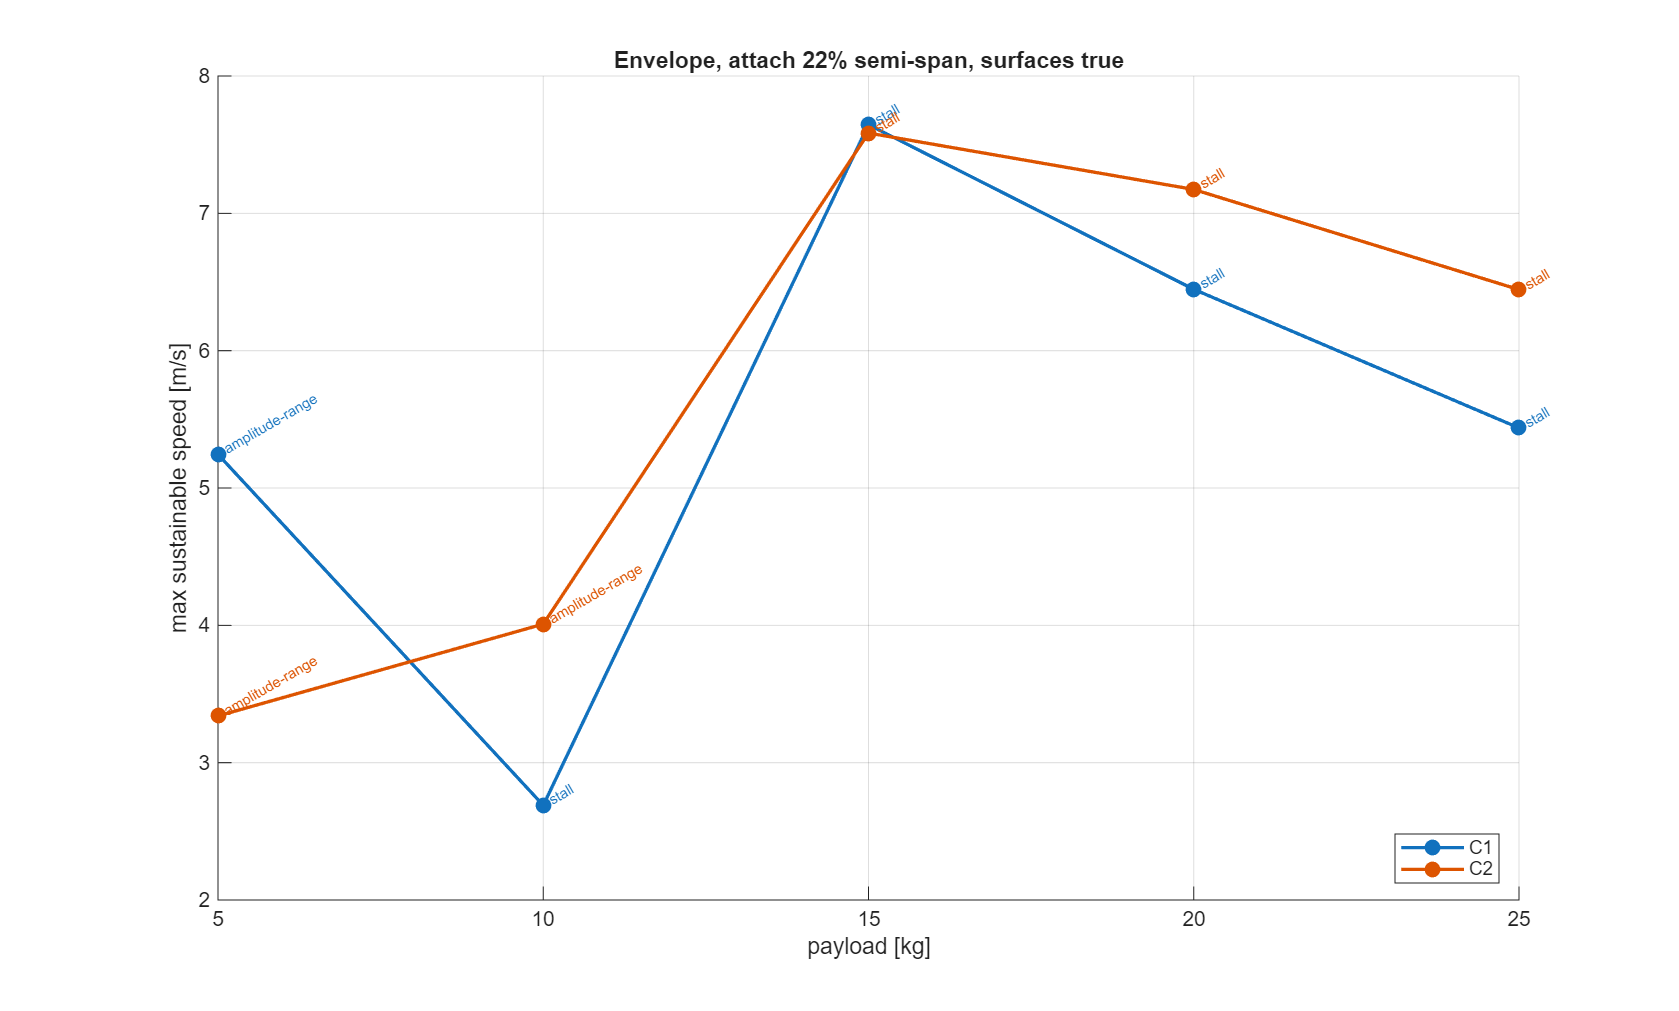
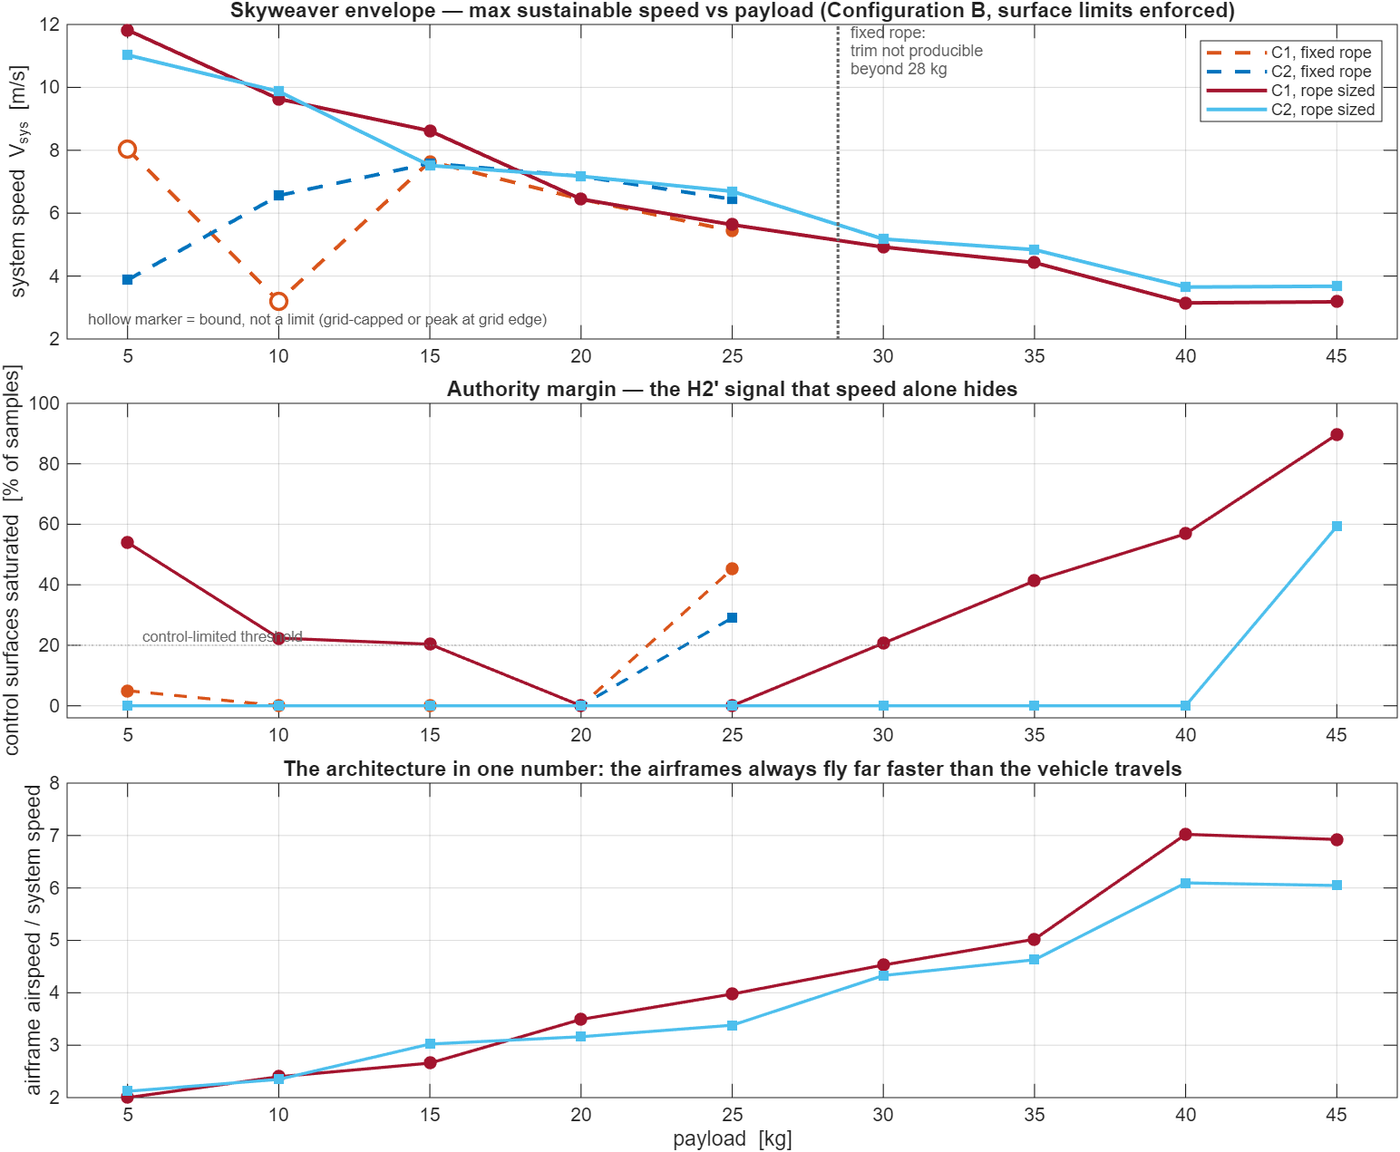
Update Skyweaver envelope with rope-sizing sweep (extends to 45 kg); add Chess Engine nav link

diff --git a/index.html b/index.html
@@ -16,6 +16,7 @@
     <a href="#projects">Projects</a>
     <a href="#classes">Classes</a>
     <a href="thrust-bench/">Motor and Propeller Drone Sizing Calculator</a>
+    <a href="chess/index.html">Chess Engine</a>
     <a href="#contact">Contact</a>
   </nav>
 </header>
@@ -92,12 +93,14 @@
         payload-to-weight goal from DARPA's 2026 Lift Challenge that no entrant met. I built a
         nonlinear 6-DOF MATLAB simulation of the full system, using NASA FASER's real
         wind-tunnel-measured airframe data, then designed and compared a cascaded PID autopilot
-        against a rotating-frame LQR. Result: a 25&ndash;30 kg payload ceiling set by rudder
-        authority rather than lift or power, with the LQR extending that ceiling by up to 19%.
+        against a rotating-frame LQR. Result: sizing the tether length to each payload, rather
+        than flying a fixed rope, extends the usable envelope from a ~25&ndash;30 kg trim-limited
+        cutoff out to 45 kg, with the LQR holding control surfaces near-unsaturated across most
+        of that range while the PID saturates up to 90% at the top end.
       </p>
       <p class="skyweaver-note">
         Animations show the aerodynamic design point; the envelope adds real control-surface
-        limits, which is what sets the payload ceiling.
+        limits and a rope length sized per payload, which is what extends the usable range.
       </p>
     </div>
     <div class="project-media skyweaver-media">
@@ -106,8 +109,8 @@
         <figcaption>Full mission &mdash; takeoff, 450 m transit and landing, flown by the cascaded PID controller.</figcaption>
       </figure>
       <figure>
-        <img src="assets/img/skyweaver-envelope.png" alt="Speed-versus-payload envelope plot for the PID and LQR controllers, with binding constraint labelled at each point">
-        <figcaption>Speed-versus-payload envelope with control-surface limits enforced. The ceiling at 25&ndash;30 kg is set by rudder authority, not by lift or power.</figcaption>
+        <img src="assets/img/skyweaver-envelope.png" alt="Speed-versus-payload envelope for the PID and LQR controllers with fixed vs. sized rope length, plus control-surface authority margin and airframe-to-system speed ratio">
+        <figcaption>Fixed-rope vs. sized-rope envelope for both controllers, out to 45 kg. Sizing the tether to the payload removes the old trim cutoff near 28 kg; the LQR keeps control-surface saturation near zero across most of the range where the PID does not.</figcaption>
       </figure>
     </div>
     <p class="skyweaver-priorart">

diff --git a/thrust-bench/index.html b/thrust-bench/index.html
@@ -252,6 +252,7 @@ tbody tr:last-child td { border-bottom: 0; }
     <a href="../index.html#projects">Projects</a>
     <a href="../index.html#classes">Classes</a>
     <a href="./" class="active" aria-current="page">Motor and Propeller Drone Sizing Calculator</a>
+    <a href="../chess/index.html">Chess Engine</a>
     <a href="../index.html#contact">Contact</a>
   </nav>
 </header>
